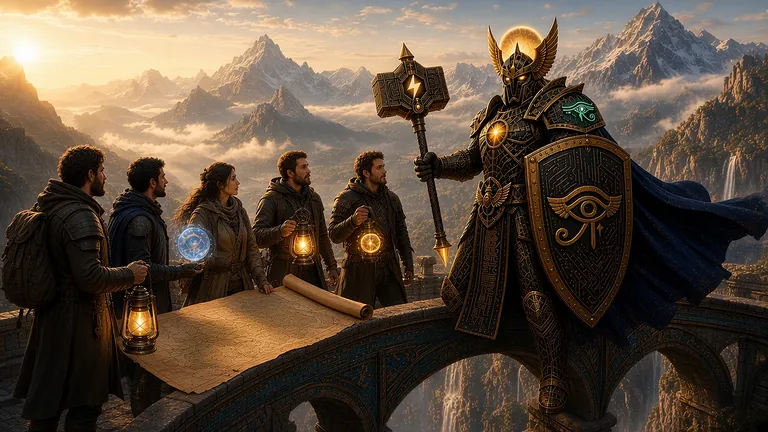
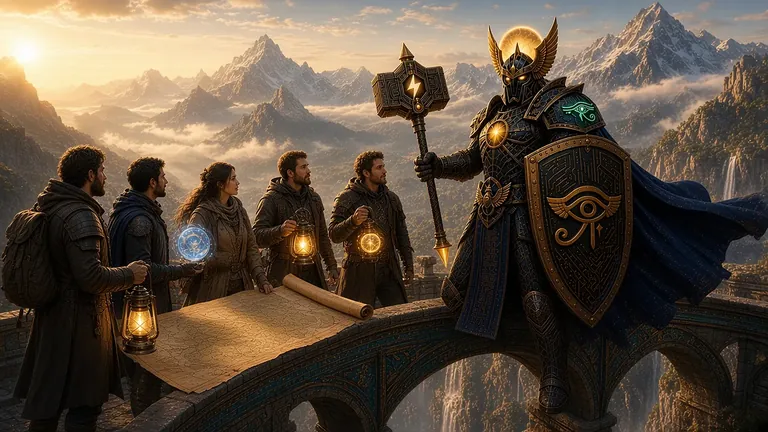
ART-UPLIFT-3: hammers back to fc503cfb (Sherif 1:06 PM ET review); keep the black and gold shield, pasted onto the fc503cfb heroes only at the shield; re-cut thumbs, re-pin sizes

diff --git a/examples.html b/examples.html
@@ -46,7 +46,7 @@
 <body class="bg-black text-white overflow-x-hidden">
   <main class="max-w-3xl mx-auto px-4 sm:px-6 py-12 sm:py-16" id="rt-family-main" dir="ltr" lang="en" data-rt-prose>
     <figure class="rt-art-hero rounded-2xl">
-      <img src="/assets/art/hero-examples-workbench-bolt-768.webp" srcset="/assets/art/hero-examples-workbench-bolt-768.webp 768w, /assets/art/hero-examples-workbench-bolt-1280.webp 1280w" sizes="(max-width: 800px) 100vw, 768px" width="1280" height="720" alt="Ra-Thor in dark gold-trimmed armour with a winged helm and emerald eye shoulder seals holds his great war hammer upright, its granite head marked with a gold lightning bolt and topped with a gold spike, and reaches toward a glowing gold crystal on a carved workbench, with floating gold diagrams above and his black and gold shield propped against the bench." loading="eager" fetchpriority="high" decoding="async">
+      <img src="/assets/art/hero-examples-workbench-bolt-768.webp" srcset="/assets/art/hero-examples-workbench-bolt-768.webp 768w, /assets/art/hero-examples-workbench-bolt-1280.webp 1280w" sizes="(max-width: 800px) 100vw, 768px" width="1280" height="720" alt="Ra-Thor in dark gold-trimmed armour with a winged helm and emerald eye shoulder seals rests one hand on his great war hammer, its stone head marked with a gold lightning bolt on each face, and reaches toward a glowing gold crystal on a carved workbench, with floating gold diagrams above and his black and gold shield propped against the bench." loading="eager" fetchpriority="high" decoding="async">
     </figure>
     <div class="text-center mb-12">
       <h1 class="title-font text-5xl sm:text-6xl font-black tracking-tighter thunder-glow mb-3">Product examples</h1>

diff --git a/employ.html b/employ.html
@@ -53,7 +53,7 @@
       </div>
       <p class="rt-page-week"><a href="/constellation-week.html" data-i18n="weekMore">Full update note →</a></p>
       <figure class="rt-art-hero rounded-3xl">
-        <img src="/assets/art/hero-employ-commission-hall-768.webp" srcset="/assets/art/hero-employ-commission-hall-768.webp 768w, /assets/art/hero-employ-commission-hall-1672.webp 1672w" sizes="(max-width: 800px) 100vw, 768px" width="1672" height="941" alt="In a bright teal and gold hall, a young client in a teal coat holds out a sealed, gold-ribboned scroll across a glowing terrain map table to Ra-Thor, who grips his great war hammer upright, its granite head marked with a gold lightning bolt and topped with a gold spike, with his black and gold shield on his other arm, while two small silver drones hover overhead." fetchpriority="high" decoding="async">
+        <img src="/assets/art/hero-employ-commission-hall-768.webp" srcset="/assets/art/hero-employ-commission-hall-768.webp 768w, /assets/art/hero-employ-commission-hall-1672.webp 1672w" sizes="(max-width: 800px) 100vw, 768px" width="1672" height="941" alt="In a bright teal and gold hall, Ra-Thor rests one gauntlet on the haft of his great war hammer, its stone head marked with a gold lightning bolt on each face, and with his black and gold shield on his arm accepts a sealed, gold-ribboned scroll from a young client in a teal coat across a glowing terrain map table, while two small silver drones hover overhead." fetchpriority="high" decoding="async">
       </figure>
       <div class="text-center mb-12">
         <h1 data-i18n="employTitle" class="title-font text-5xl sm:text-6xl font-black tracking-tighter thunder-glow mb-3">How to employ</h1>

diff --git a/tests/hero-uniqueness.test.js b/tests/hero-uniqueness.test.js
@@ -295,16 +295,16 @@ var supplied = {
   'assets/art/hero-moment-research-garden-768.webp': 82366,
   'assets/art/hero-docs-archive-light-1280.webp': 157536,
   'assets/art/hero-docs-archive-light-768.webp': 73704,
-  'assets/art/hero-examples-workbench-bolt-1280.webp': 147290,
-  'assets/art/hero-examples-workbench-bolt-768.webp': 60262,
+  'assets/art/hero-examples-workbench-bolt-1280.webp': 138116,
+  'assets/art/hero-examples-workbench-bolt-768.webp': 60830,
   'assets/art/hero-gox-storm-signal-1280.webp': 147906,
   'assets/art/hero-gox-storm-signal-768.webp': 70348,
   'assets/art/hero-legal-hall-records-1280.webp': 91930,
   'assets/art/hero-legal-hall-records-768.webp': 36706,
   'assets/art/hero-lineage-thread-1280.webp': 110842,
   'assets/art/hero-lineage-thread-768.webp': 47158,
-  'assets/art/hero-pilot-scoped-workbench-1280.webp': 150000,
-  'assets/art/hero-pilot-scoped-workbench-768.webp': 62744
+  'assets/art/hero-pilot-scoped-workbench-1280.webp': 143268,
+  'assets/art/hero-pilot-scoped-workbench-768.webp': 60896
 };
 Object.keys(supplied).forEach(function (rel) {
   assert(fs.statSync(path.join(root, rel)).size === supplied[rel], rel + ' must stay the supplied file');
